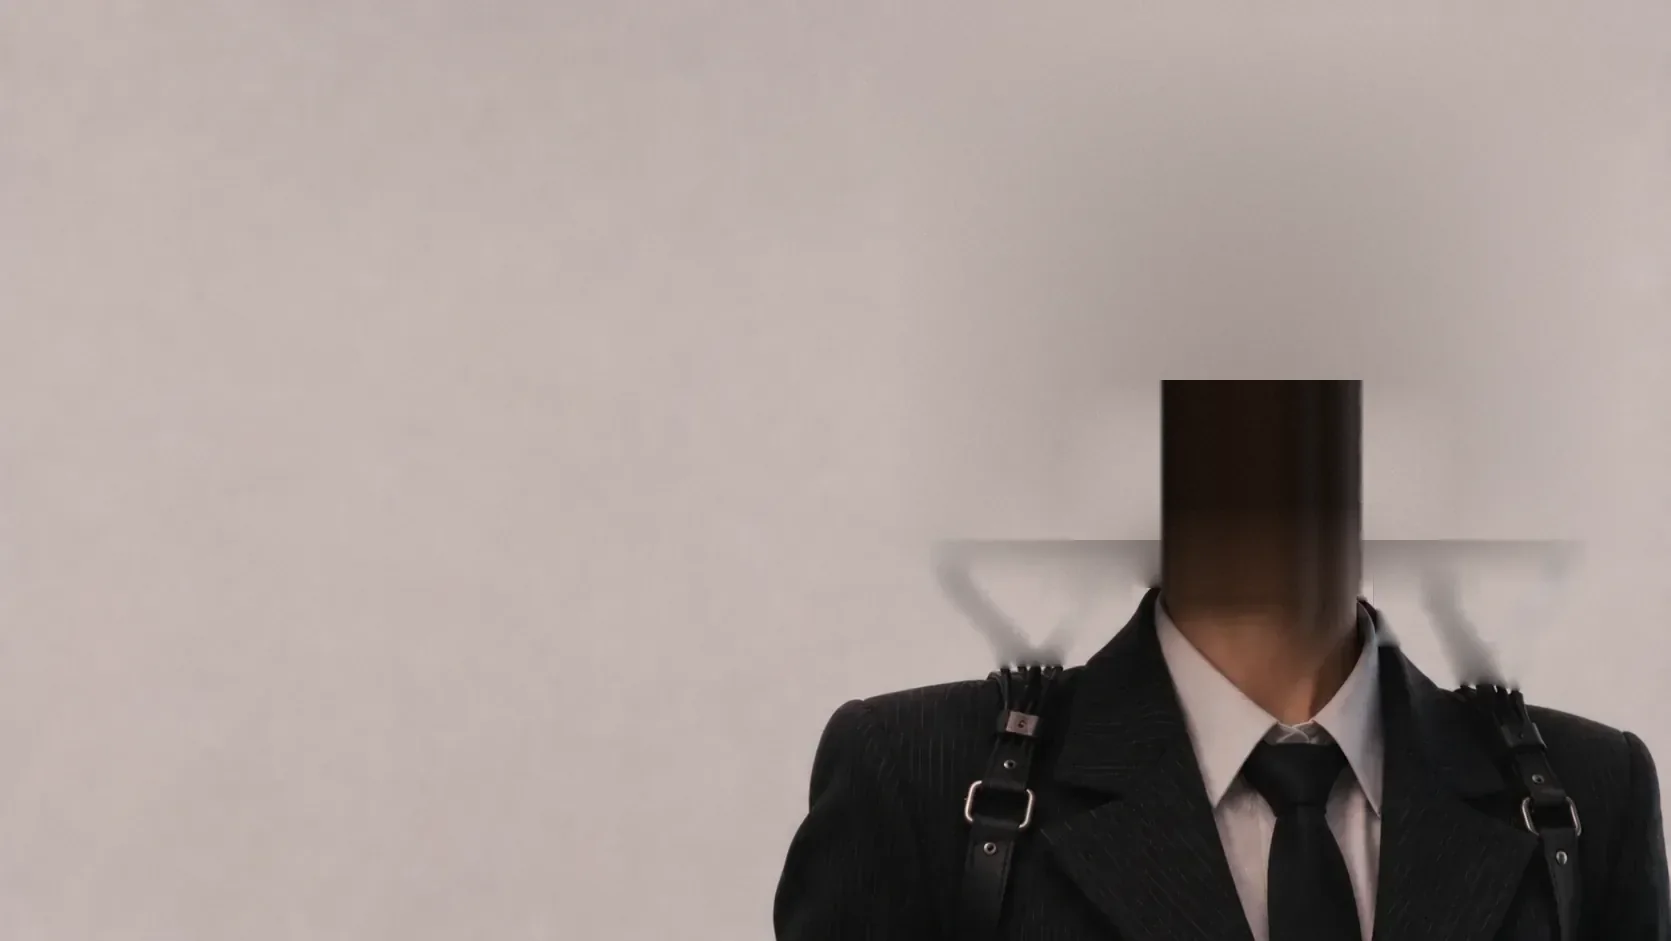
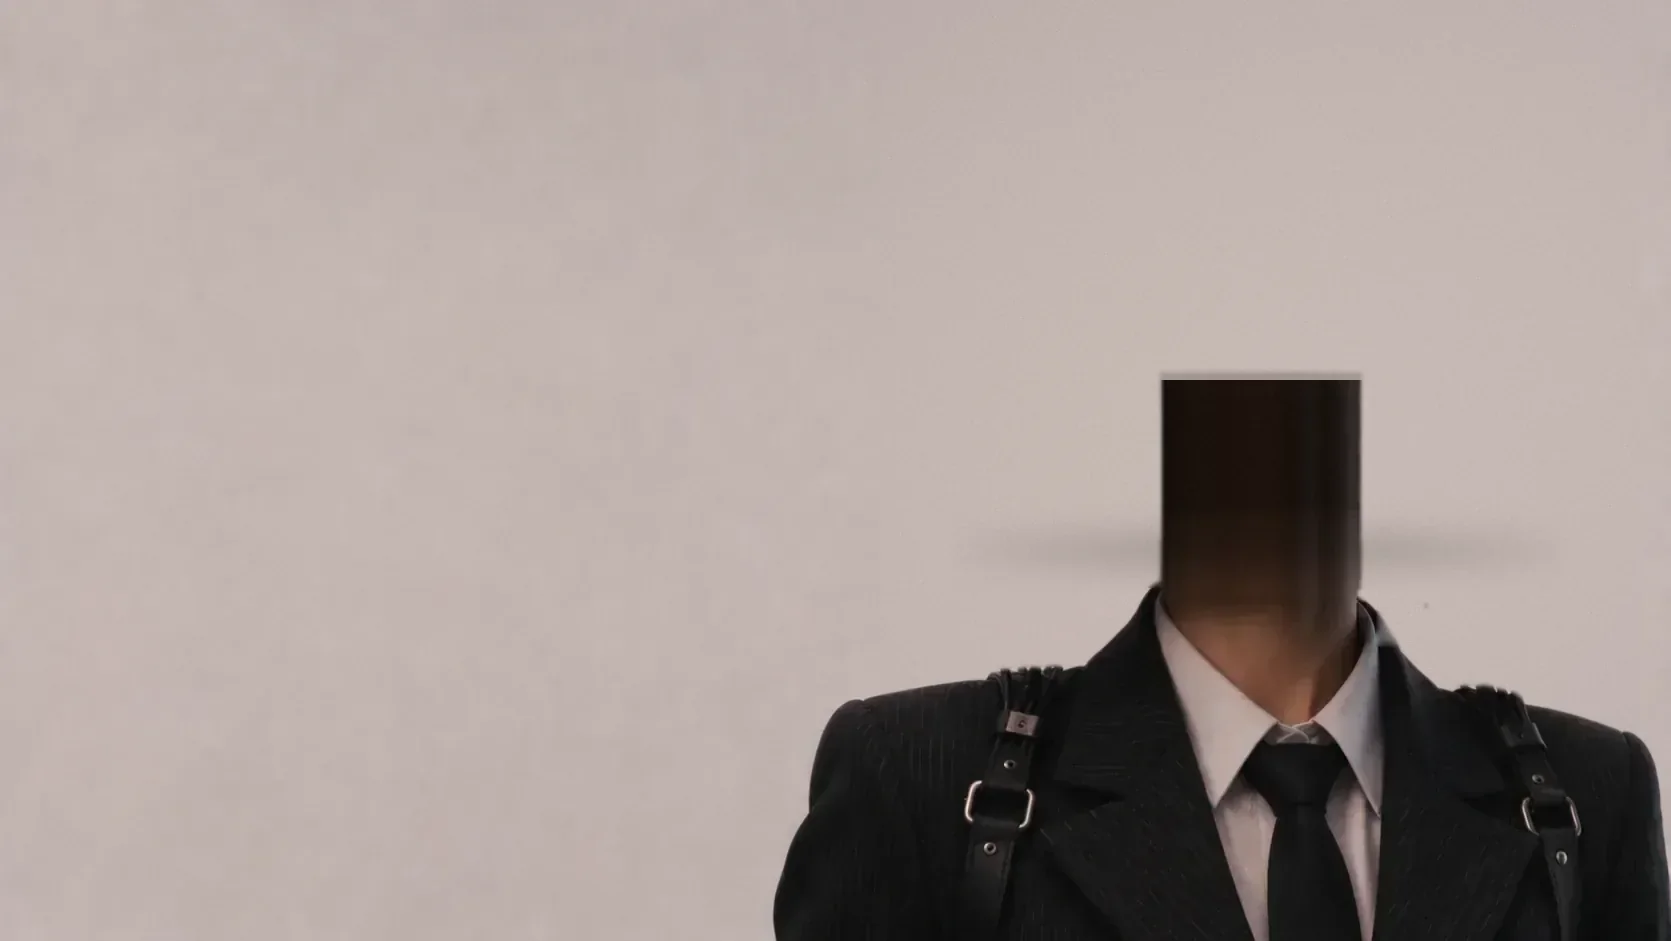
web: pared limpia alrededor del televisor, cuerpo en 3D y paso suave a la parte oscura
- Se rehace la pared detrás del televisor con el degradado de luz de la
  foto: sin el halo borroso ni restos de los cables antiguos.
- El cuerpo se mueve en 3D desde la base (gira, se inclina y respira), sin
  desplazarse entero como si flotara.
- Sin velo negro al hacer scroll: una franja de fondo pasa del gris de la
  portada al negro de la web y la base de la figura se funde en ella.

Claude-Session: https://claude.ai/code/session_01Ct51RaTsVUCxvPMJjSuu7d

diff --git a/index.html b/index.html
@@ -404,10 +404,10 @@
     .ix-body{position:absolute;inset:0;display:block;width:100%;height:100%}
     /* Los bordes de la foto se funden dentro de la propia imagen: aunque el
        bloque gire o se balancee, nunca asoma un canto. */
-    .ix-body{-webkit-mask-image:linear-gradient(90deg,transparent 0,#000 30%),linear-gradient(180deg,transparent 0,#000 10%);-webkit-mask-composite:source-in;mask-image:linear-gradient(90deg,transparent 0,#000 30%),linear-gradient(180deg,transparent 0,#000 10%);mask-composite:intersect}
+    .ix-body{-webkit-mask-image:linear-gradient(90deg,transparent 0,#000 30%),linear-gradient(180deg,transparent 0,#000 7%,#000 80%,transparent 95%);-webkit-mask-composite:source-in;mask-image:linear-gradient(90deg,transparent 0,#000 30%),linear-gradient(180deg,transparent 0,#000 7%,#000 80%,transparent 95%);mask-composite:intersect}
     #inicio.ix .ix-copy{min-width:0}
     .ix-fig{transform-origin:66% 100%}
-    .ix-photo-in::after{content:"";position:absolute;inset:-5% -1px -1px -1px;background:linear-gradient(90deg,#c3b6b1 0%,rgba(195,182,177,.85) 12%,rgba(195,182,177,0) 40%),linear-gradient(180deg,#c3b6b1,rgba(195,182,177,0) 12%)}
+    .ix-photo-in::after{content:"";position:absolute;inset:-1px;background:linear-gradient(90deg,#c3b6b1 0%,rgba(195,182,177,.85) 12%,rgba(195,182,177,0) 40%);pointer-events:none}
 
     /* La pantalla de la foto y la cara de ditbo */
     .tv{position:absolute;z-index:1;left:61%;top:8%;width:29.3%;height:41%;border-radius:7% / 9%;overflow:hidden;--lx:0;--ly:0;--vol:0}
@@ -568,6 +568,12 @@
     .ix-3d{position:absolute;inset:0;width:100%;height:100%;display:block;opacity:0;pointer-events:none}
     #inicio.has-3d .ix-3d{opacity:1}
     #inicio.has-3d .ix-fig>.tv{opacity:0}
+    /* Paso de la portada a la parte oscura: sin velo negro al hacer scroll; un
+       degradado de fondo del gris de la portada al negro de la web, y la base
+       de la figura se funde en él. El cuerpo se mueve en 3D desde la base. */
+    #inicio.ix .ix-veil,#inicio.ix .ix-fade{display:none!important}
+    .hero-blend{position:relative;height:clamp(200px,34svh,380px);margin-bottom:calc(clamp(200px,34svh,380px) * -0.35);background:linear-gradient(180deg,#c3b6b1 0%,#a89c98 12%,#837976 28%,#5a524f 46%,#332e2c 64%,#161413 82%,#050706 100%);pointer-events:none}
+    .ix-fig{transform-origin:66% 100%;transform-style:preserve-3d}
   </style>
 </head>
 <body data-nav-mode="hero">
@@ -693,6 +699,7 @@
       <span class="ix-sentinel" id="ix-sentinel" aria-hidden="true"></span>
       <span class="ix-sentinel ix-sentinel-top" id="ix-sentinel-top" aria-hidden="true"></span>
     </section>
+    <div class="hero-blend" aria-hidden="true"></div>
 
     <section id="proceso" class="discovery-section system-minimal">
       <div class="section-copy system-copy">
@@ -1300,7 +1307,7 @@
     </div>
   </div>
 
-  <script defer src="features/landing/hero.js?v=20261125-hibrido3"></script>
+  <script defer src="features/landing/hero.js?v=20261125-cuerpo3d"></script>
   <script defer src="features/landing/preloader.js?v=20261122-pantalla"></script>
 <script data-goatcounter="https://aitomat.goatcounter.com/count" async src="//gc.zgo.at/count.js"></script>
 </body>

diff --git a/features/landing/hero.js b/features/landing/hero.js
@@ -111,12 +111,13 @@
     const vivo = window.ditboVivo || (window.ditboVivo = {});
     vivo.cx = cx; vivo.cy = cy; vivo.ex = ex; vivo.ey = ey; vivo.respira = respira; vivo.bx = bx; vivo.br = br;
     if (fig && hero.classList.contains('has-3d')) {
-      // Con la cabeza 3D, el cuerpo vive: respira (hombros que suben y pecho que
-      // se abre), se balancea de pie y acompaña un poco con el torso hacia
-      // donde mira. El giro sale de la base (abajo), como un cuerpo real.
-      const tx = bx * 2.2 + cx * 9, ty = by * 1.8 - respira * 3.5 + Math.abs(cx) * 2;
-      const rz = br * 1.6 + cx * 0.55;
-      fig.style.transform = `translate3d(${tx.toFixed(2)}px,${ty.toFixed(2)}px,0) rotate(${rz.toFixed(3)}deg) scale(${(1.03 + respira * 0.006).toFixed(4)},${(1.03 + respira * 0.011).toFixed(4)})`; // 1.03: margen para que al balancearse no asome el borde de la foto
+      // Con la cabeza 3D, el cuerpo se mueve en 3D desde la base (pies
+      // quietos): el torso gira un poco hacia donde mira y se inclina, respira
+      // (pecho y hombros) y se balancea de pie. Nada de desplazarse entero.
+      const giroY = cx * 5 + bx * 0.45;              // grados
+      const giroX = -cy * 1.6 + respira * 0.5;
+      const giroZ = br * 1.2 + cx * 0.4;
+      fig.style.transform = `perspective(1600px) rotateY(${giroY.toFixed(3)}deg) rotateX(${giroX.toFixed(3)}deg) rotateZ(${giroZ.toFixed(3)}deg) scale(${(1.04 + respira * 0.005).toFixed(4)},${(1.04 + respira * 0.012).toFixed(4)})`;
     } else if (fig) fig.style.transform = `perspective(1800px) translate3d(${(bx + cx * 10).toFixed(2)}px,${(by + cy * 4).toFixed(2)}px,0) rotateY(${ry.toFixed(3)}deg) rotateX(${rx.toFixed(3)}deg) rotate(${br.toFixed(3)}deg) scale(1,${(1 + respira * 0.005).toFixed(4)})`;
     // Las pupilas solo se tocan si se han movido de verdad.
     const lx = ex.toFixed(3), ly = ey.toFixed(3);
@@ -391,7 +392,7 @@
       // El cuerpo sin televisor se descarga antes: el cambio de foto y el
       // primer fotograma 3D ocurren a la vez, sin parpadeo.
       const cuerpo = new Image();
-      cuerpo.src = '/features/landing/media/hero/cristina-cuerpo.webp?v=3';
+      cuerpo.src = '/features/landing/media/hero/cristina-cuerpo.webp?v=4';
       return Promise.all([import('/features/landing/cristina3d.js?v=11'), cuerpo.decode()])
         .then(([m]) => m.montar({ hero, lienzo: lienzo3d, alListo: () => {
           const img = hero.querySelector('.ix-body');
